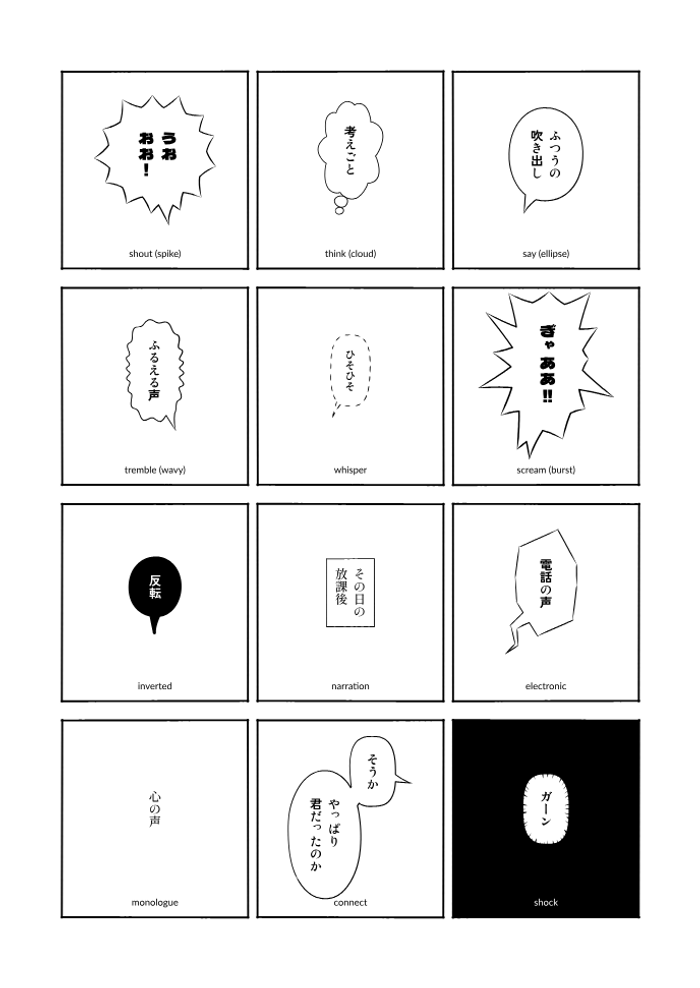
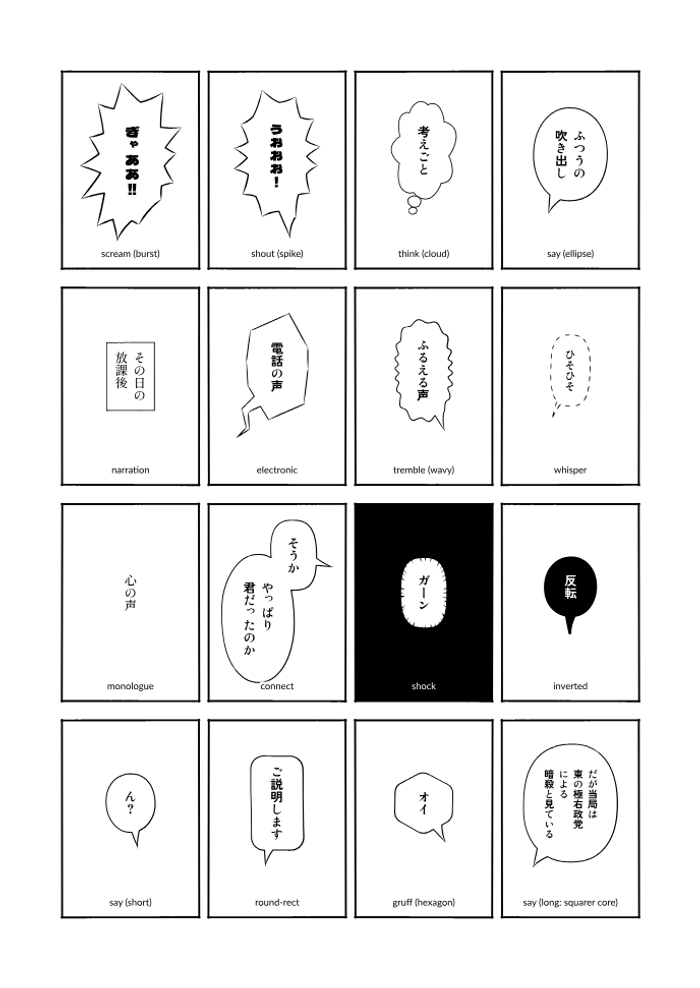
幅の制限で文節の途中や 1 字だけの行になる場合は文字を縮めて組み直す。吹き出しの一覧に gruff・角丸・長文・短文を追加

diff --git a/src/render/compose.ts b/src/render/compose.ts
@@ -2,7 +2,7 @@
 import { BLACK, WHITE, parseColor } from "../core/color.js";
 import { DiagnosticBag } from "../core/diagnostics.js";
 import { Rng } from "../core/random.js";
-import { phraseBoundaries } from "../text/linebreak.js";
+import { breakFaults } from "../text/layout.js";
 import { parseAngle, toMm } from "../core/units.js";
 import { type ElemCtx, type Silhouette, placeCtx, tag } from "../elements/context.js";
 import { type BalloonPlan, planBalloon, renderBalloon, renderConnected } from "../elements/balloon.js";
@@ -1146,26 +1146,6 @@ function placeBalloons(plans: BalloonPlan[], ctx: ElemCtx, refs: RefRegistry, pr
       // earlier balloons are drawn on top: a large overlap hides the later one's text
       if (ov > 0.2 * Math.min(a.w * a.h, b.w * b.h) && !rects[j].pl.props.connect && !rects[i].pl.props.connect) ctx.bag.warn("BALLOON_TEXT_HIDDEN", `balloon ${rects[j].pl.el.id} is largely covered by ${rects[i].pl.el.id}`, { path: rects[j].pl.el.path, elementId: rects[j].pl.el.id });
     }
-}
-
-/** line breaks a letterer would reject: inside a phrase, or lines holding a single word */
-function breakFaults(tl: import("../text/layout.js").TextLayout, lang: string): number {
-  const lines = tl.lines.map((l) => l.text ?? "");
-  if (lines.length < 2) return 0;
-  const joined = lines.join("");
-  const bounds = phraseBoundaries(joined, lang);
-  let pos = 0;
-  let bad = 0;
-  for (let i = 0; i < lines.length; i++) {
-    // latin lines always break at spaces; CJK breaks must fall on phrase boundaries
-    const latin = /[A-Za-z0-9!?.,…'’"”]$/.test(lines[i - 1] ?? "") && /^[A-Za-z0-9'‘"“]/.test(lines[i]);
-    if (i > 0 && !latin && !bounds.has(pos) && !/^\s/.test(lines[i]) && !/\s$/.test(lines[i - 1])) bad++;
-    pos += lines[i].length;
-  }
-  // latin text: lines of one word read like a list
-  const single = lines.filter((l) => /[A-Za-z]/.test(l) && l.trim().split(/\s+/).length === 1 && !/[!?…]$/.test(l.trim())).length;
-  if (lines.length >= 3 && single >= 2) bad += single;
-  return bad;
 }
 
 /** fraction of rect `r` covered by the ellipse inscribed in `e` (sampled) */

diff --git a/src/elements/balloon.ts b/src/elements/balloon.ts
@@ -14,7 +14,7 @@ import type { Node, Paint } from "../render/ir.js";
 import polygonClipping from "polygon-clipping";
 import { BODY_GENERATORS, type BodyGeom, type ShapeParams } from "../shapes/balloon.js";
 import { Contour, type PluginBalloonShape, activePlugins } from "../plugin.js";
-import { type TextLayout, layoutText } from "../text/layout.js";
+import { type TextLayout, breakFaults, layoutText } from "../text/layout.js";
 import { type ElemCtx, silhouetteHit, tag } from "./context.js";
 import { fillNode, inksToNodes, polysToPath } from "./inkir.js";
 import { glyphNodes } from "./glyphs.js";
@@ -155,6 +155,11 @@ export function planBalloon(el: RElement, ctx: ElemCtx): BalloonPlan {
       if (isFinite(lim)) boxLimit = Math.min(boxLimit ?? Infinity, Math.max(lim, style.fontSize * 4.5));
     }
     const tl = layoutText(text, style, ctx.fonts, boxLimit);
+    // a size limit that forces breaks inside phrases: set the text smaller before breaking it badly
+    if (boxLimit !== undefined && !fixedBase && scale > minFontScale + 1e-6 && attempt < 11 && breakFaults(tl, ctx.lang) > breakFaults(layoutText(text, style, ctx.fonts), ctx.lang)) {
+      scale = Math.max(minFontScale, scale - 0.05);
+      continue;
+    }
     // a full block of text gets a balloon with a squarer core; a short word a round one
     if (kind === "ellipse" && !(isObj(p.shape) && (p.shape as Obj).squareness !== undefined)) {
       const lens = tl.lines.map((l) => l.length);

diff --git a/src/text/layout.ts b/src/text/layout.ts
@@ -883,3 +883,26 @@ export function defaultTextStyle(partial: Partial<TextStyle> & { font: string; f
     ...partial,
   };
 }
+
+/** line breaks a letterer would reject: inside a phrase, or lines holding a single word */
+export function breakFaults(tl: TextLayout, lang: string): number {
+  const lines = tl.lines.map((l) => l.text ?? "");
+  if (lines.length < 2) return 0;
+  const joined = lines.join("");
+  const bounds = phraseBoundaries(joined, lang);
+  let pos = 0;
+  let bad = 0;
+  for (let i = 0; i < lines.length; i++) {
+    // latin lines always break at spaces; CJK breaks must fall on phrase boundaries
+    const latin = /[A-Za-z0-9!?.,…'’"”]$/.test(lines[i - 1] ?? "") && /^[A-Za-z0-9'‘"“]/.test(lines[i]);
+    if (i > 0 && !latin && !bounds.has(pos) && !/^\s/.test(lines[i]) && !/\s$/.test(lines[i - 1])) bad++;
+    pos += lines[i].length;
+  }
+  // a lone character on its own line (ご／説明します)
+  bad += lines.filter((l) => Array.from(l.trim()).length === 1 && !/^[、。！？!?…」』）]$/.test(l.trim())).length;
+  // latin text: lines of one word read like a list
+  const single = lines.filter((l) => /[A-Za-z]/.test(l) && l.trim().split(/\s+/).length === 1 && !/[!?…]$/.test(l.trim())).length;
+  if (lines.length >= 3 && single >= 2) bad += single;
+  return bad;
+}
+

diff --git a/docs/07-text.md b/docs/07-text.md
@@ -29,7 +29,7 @@
 | `align` | `start` \| `center` \| `end` \| `justify` | 吹き出しの縦書きは `start`、吹き出しの横書きは `center`、その他は `start` | 行の揃え。縦書きの `start` は天揃え |
 | `blockAlign` | `start` \| `center` \| `end` | `center` | 箱の中での文字のかたまりの位置（`text` で `size` を固定した場合） |
 | `wrap` | `auto` \| `none` \| `char` \| `phrase` \| `balanced` | `auto` | 改行の方法（[7.6](#76-改行と禁則処理)） |
-| `maxChars` | 数値 | 吹き出しの縦書き 8、吹き出しの横書き 14、その他はなし | 1 行の最大文字数（全角 1、半角 0.5 として数える） |
+| `maxChars` | 数値 | 吹き出しの縦書き 8、吹き出しの横書き 14、その他はなし | 1 行の最大文字数（全角 1、半角 0.5 として数える）。吹き出しの本文に手で改行を入れた場合、既定値はその最長の行まで（既定の 1.5 倍を上限に）広げ、作者の改行を保つ |
 | `maxExtent` | Length | - | 1 行の最大の長さ |
 | `kinsoku` | `strict` \| `normal` \| `loose` \| `none` | `strict` | 禁則の強さ（[7.6.4](#764-禁則)） |
 | `hanging` | 真偽値 | `false` | 句読点のぶら下げ |
